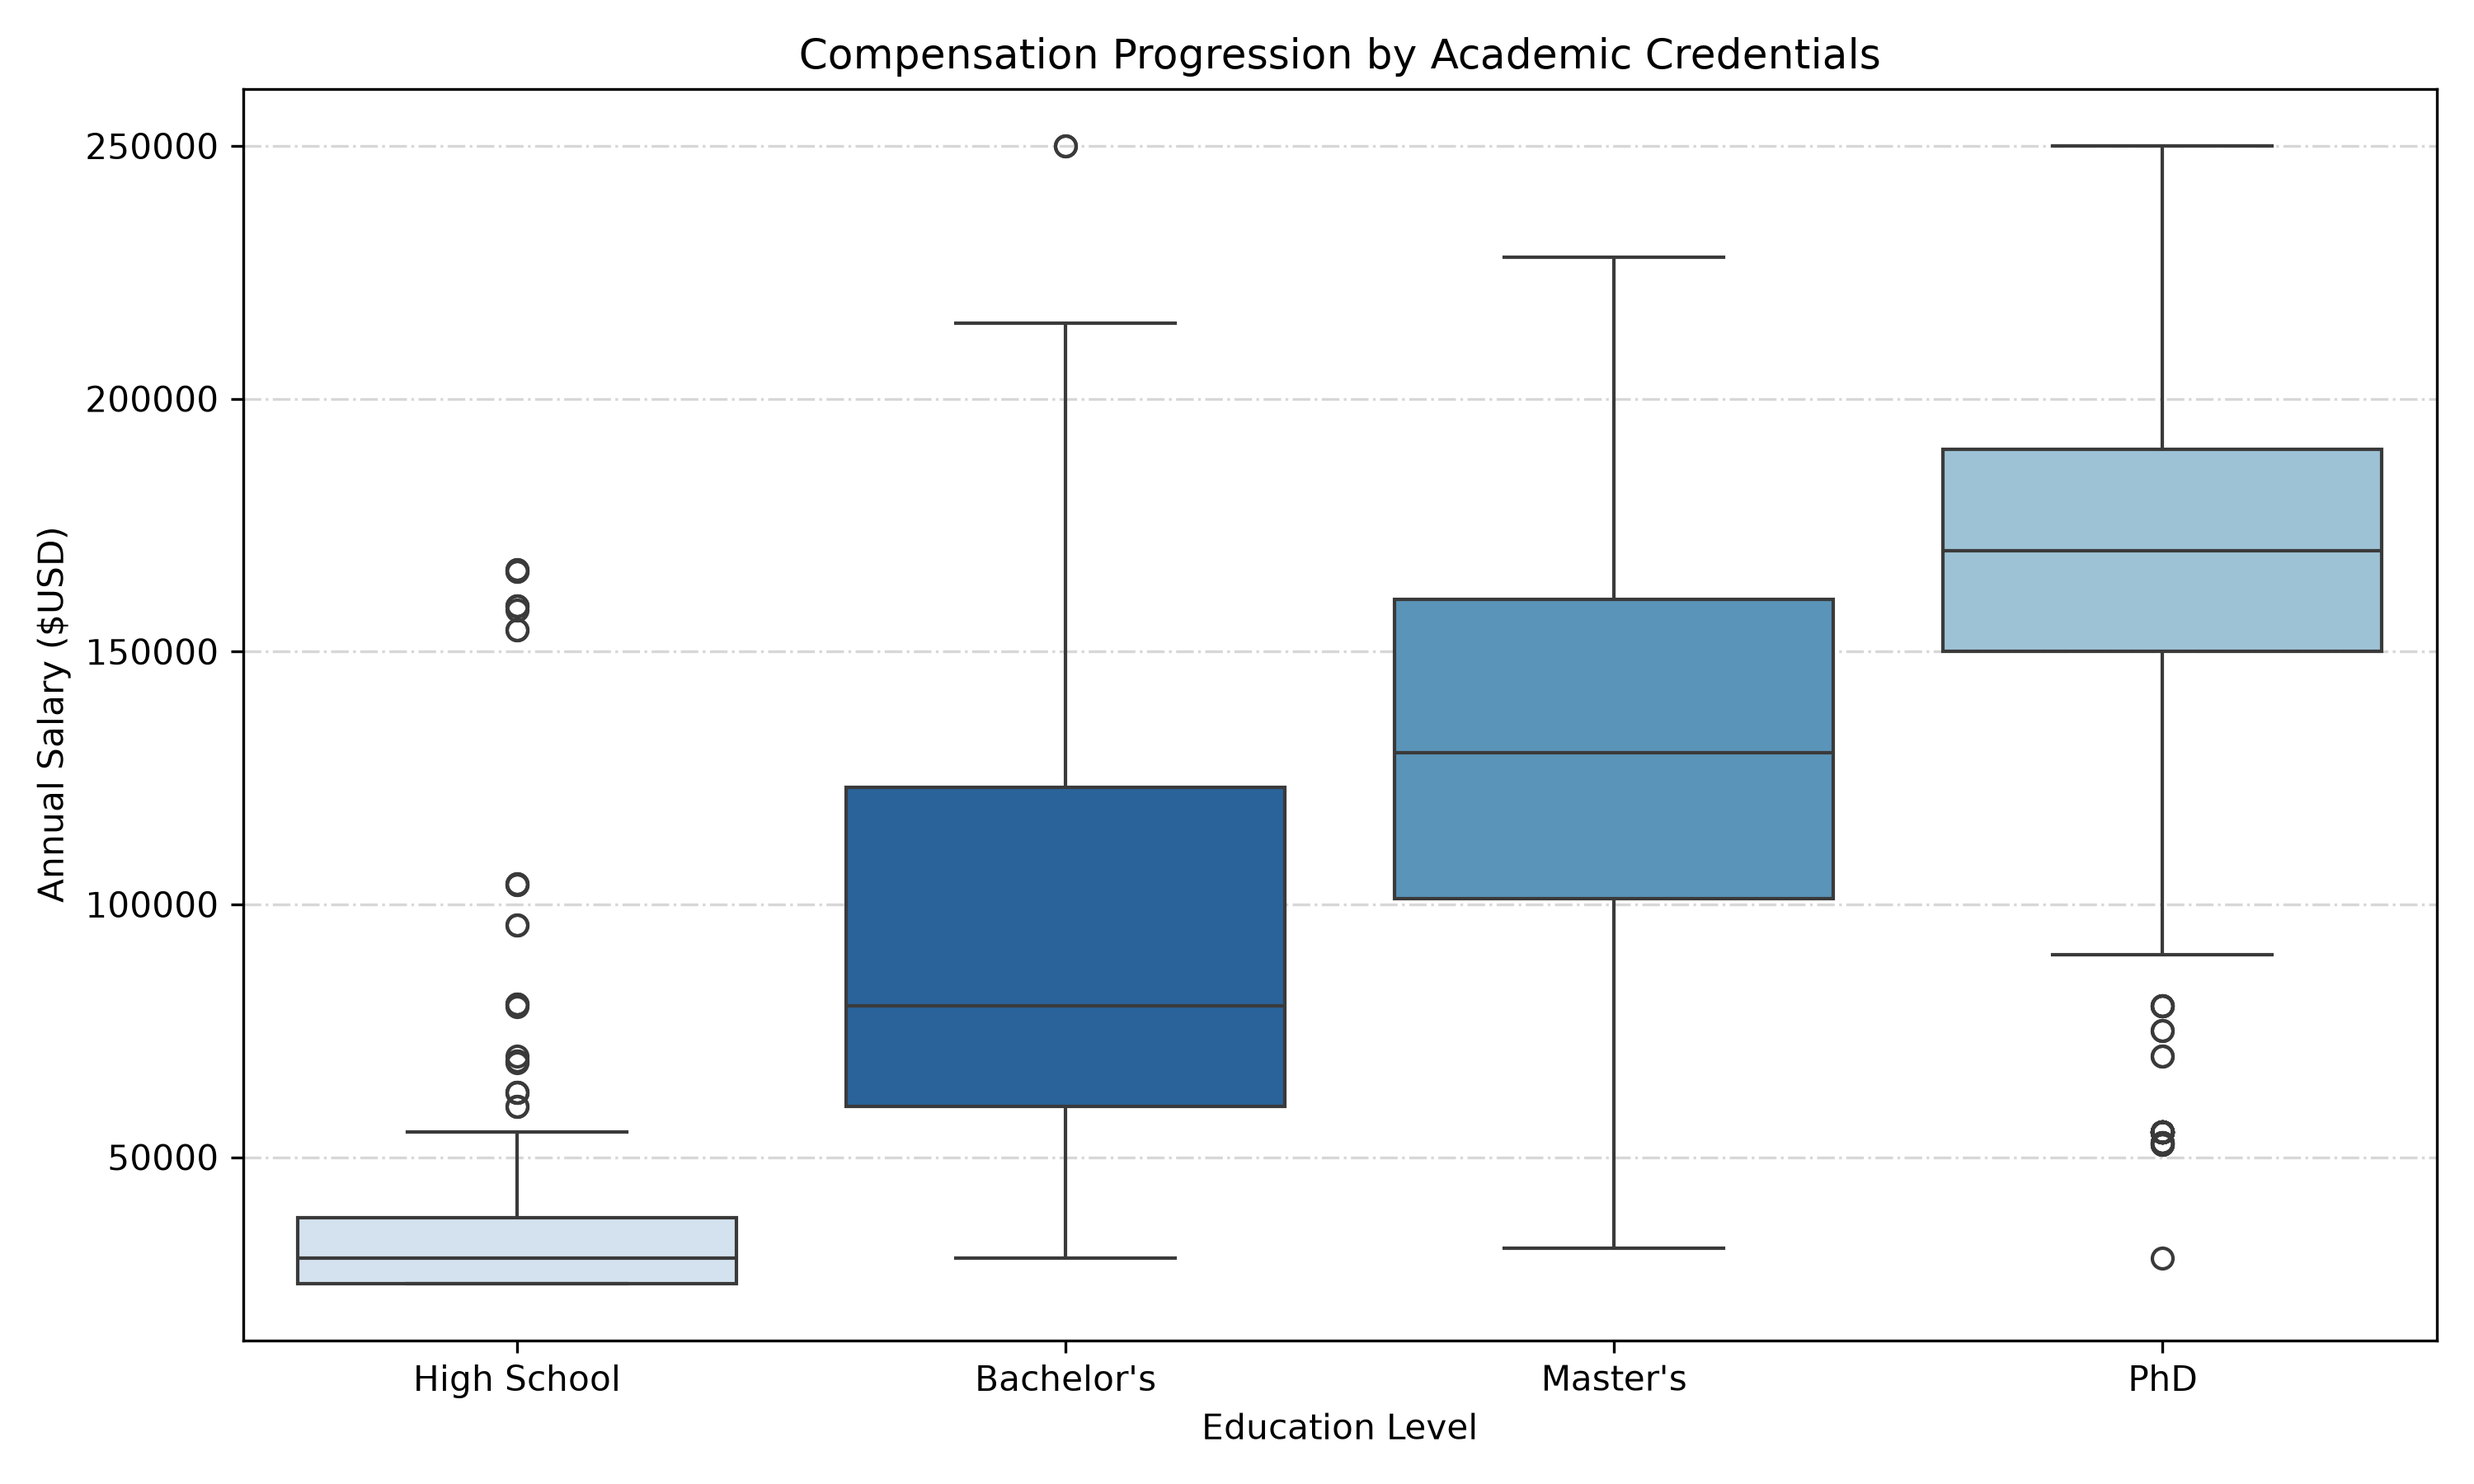
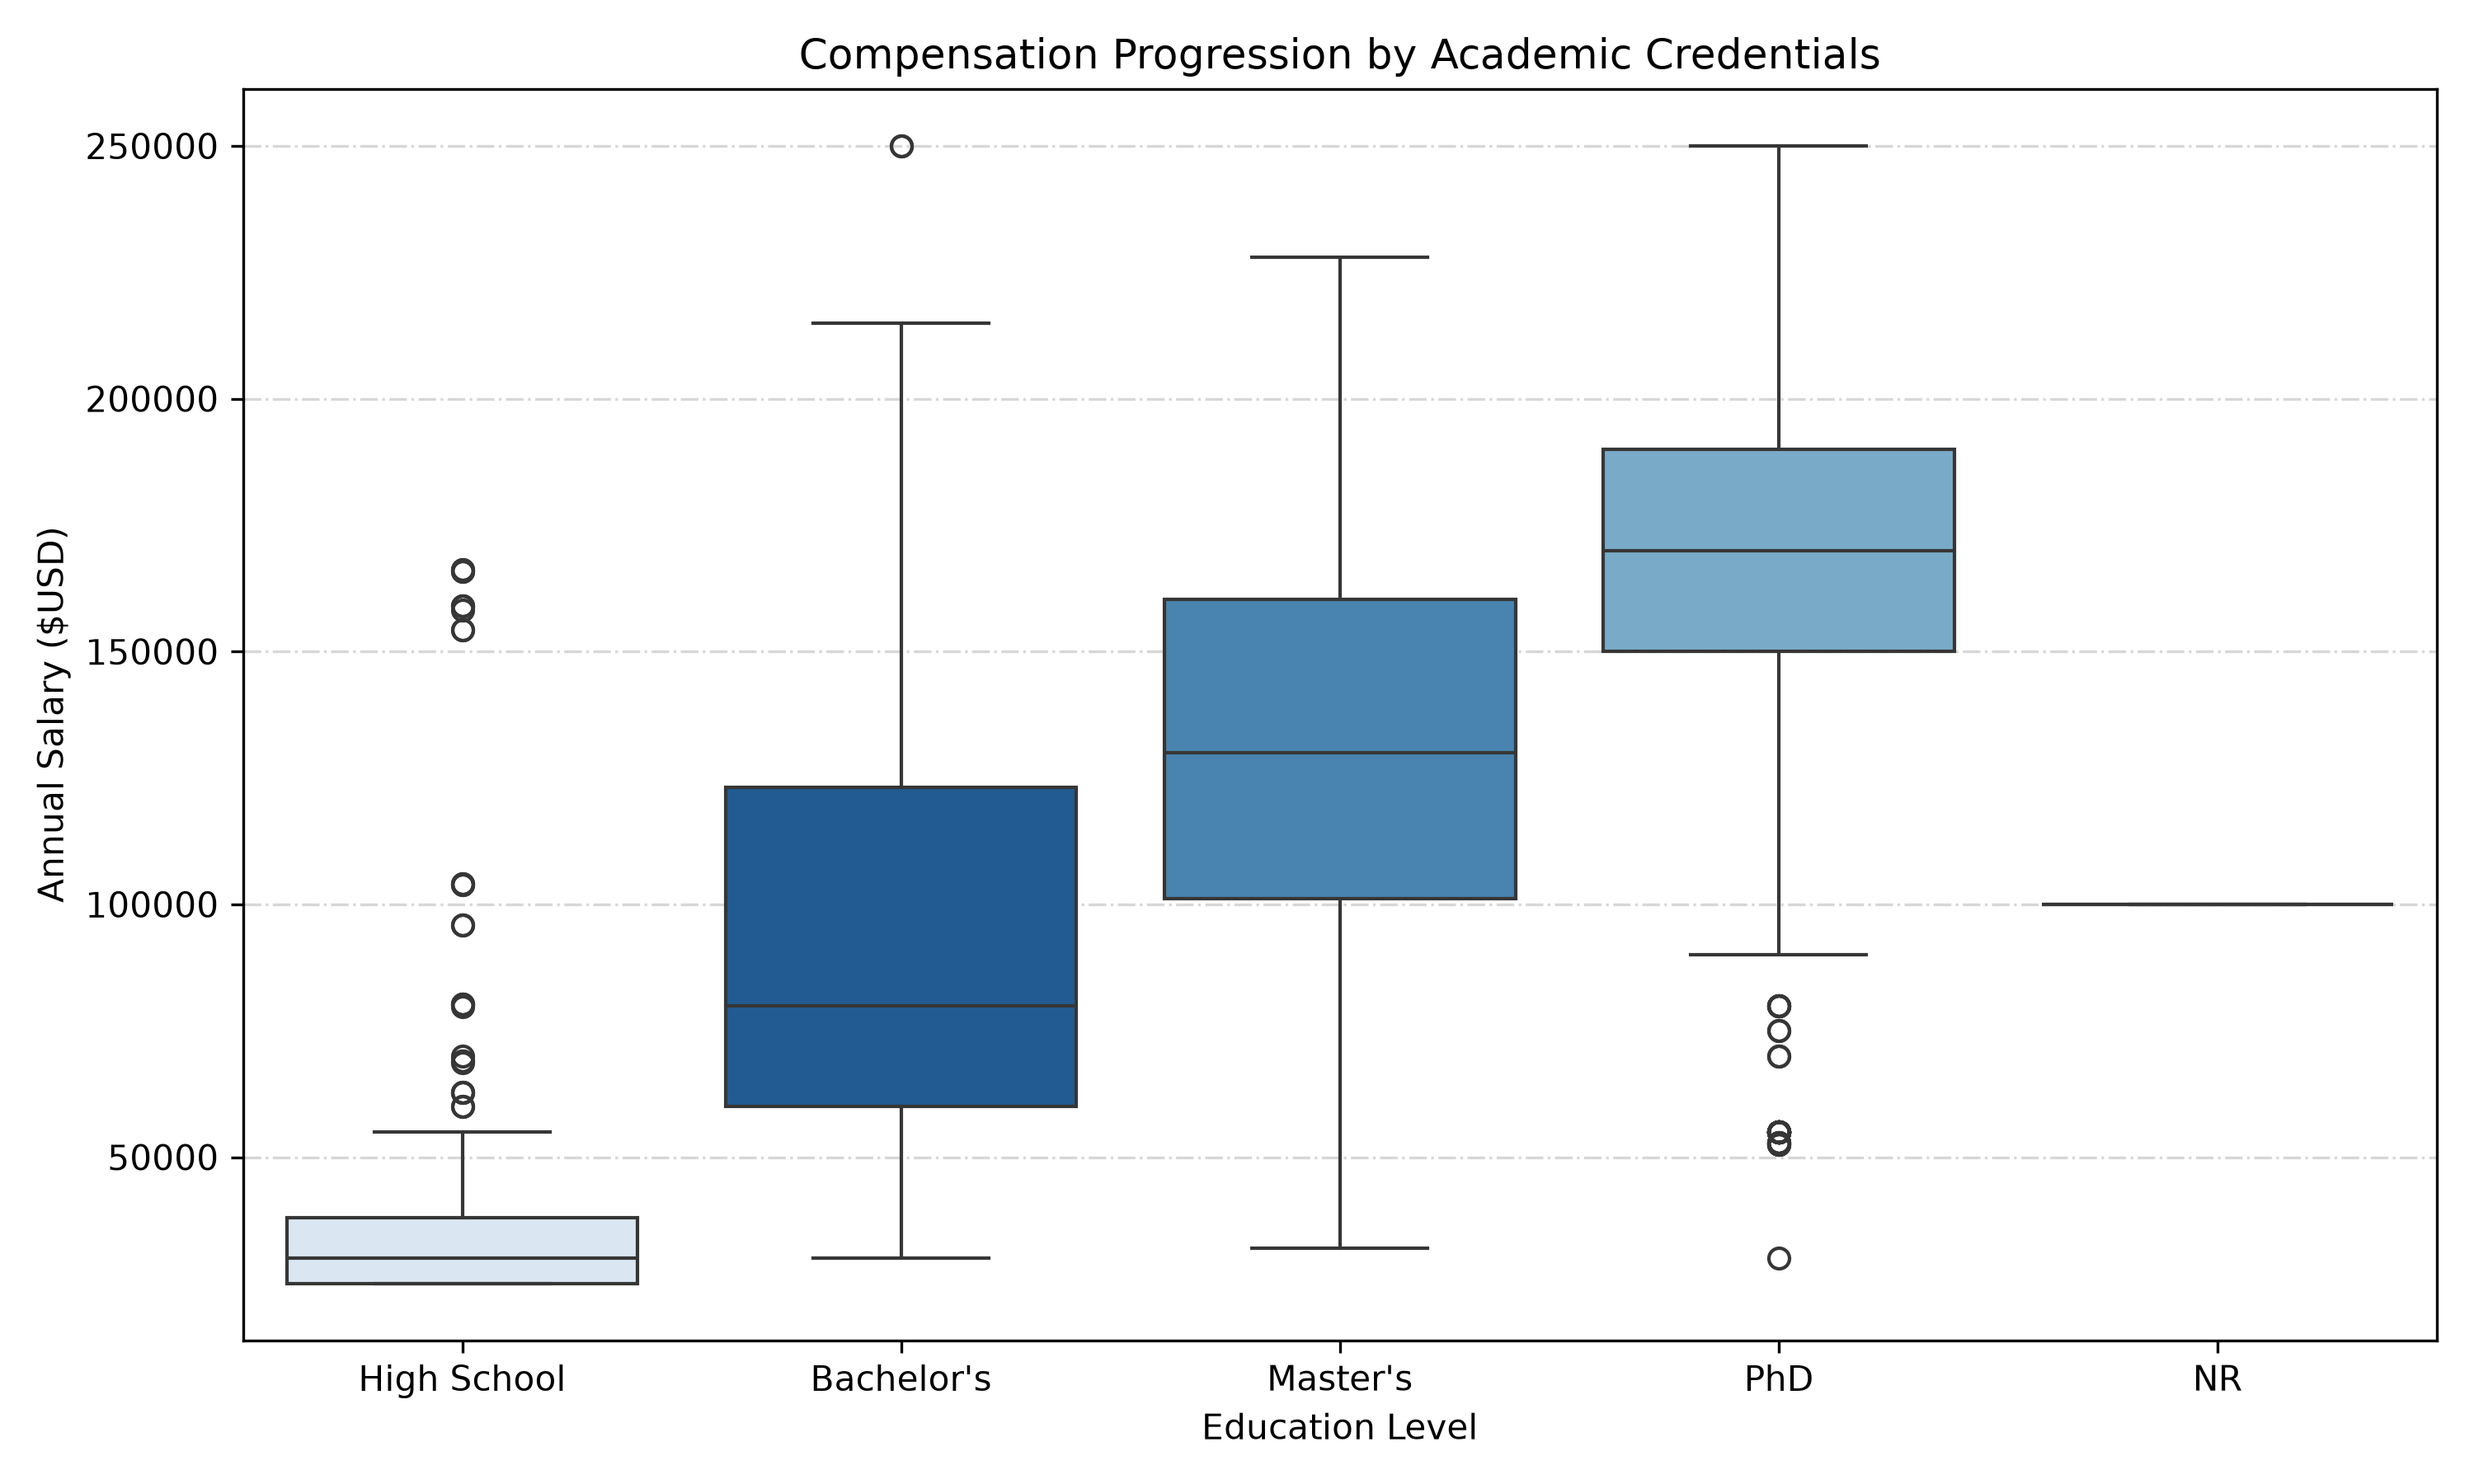
Add new education level and update stats calculations
- Added a new entry for 'NR' (Not Reported) in the education level order.
- Updated the pandas pipeline to map missing education levels to 'NR'.
- Introduced a new script for extracting and calculating salary statistics.
- Updated visualizations to reflect changes in the dataset.

diff --git a/scripts/extract_stats.py b/scripts/extract_stats.py
@@ -1,0 +1,68 @@
+# ============================================
+# IMPORTS, PATHS $ CONSTANTS
+# ============================================
+import pandas as pd
+from pathlib import Path
+from scipy import stats
+
+# Paths
+BASE_DIR = Path(__file__).resolve().parent.parent
+DATA_PATH = BASE_DIR / 'data'
+
+# Constant
+EDUCATION_ORDER = ["High School", "Bachelor's", "Master's", "PhD", "NR"]
+
+# ============================================
+# STATS FUNCTION
+# ============================================
+def calculate_overall_stats(df: pd.DataFrame) -> dict[str, float]:
+    # 1. Calculate stats on df['Salary']
+    # mean_val, median_val, std_val, min_val, max_val, skew_val = 
+    return df['Salary'].agg(['mean', 'median', 'std', 'min', 'max', 'skew']).to_dict()
+
+def calculate_education_stats(df: pd.DataFrame) -> pd.DataFrame:
+    # 1. Calculate stats on df['Education Level']
+    edu_stats = df.groupby('Education Level')['Salary'].agg(['count', 'mean', 'median', 'std']).reindex(EDUCATION_ORDER)
+    
+    return edu_stats
+
+def calculate_experience_stats(df: pd.DataFrame) -> dict[str, float]:
+    # 1. Pearson Correlation (r)
+    corr = df['Years of Experience'].corr(df['Salary'])
+
+    # 2. Linear Regression (Slope, Intercept, R-value)
+    res = stats.linregress(df['Years of Experience'], df['Salary'])
+    r_squared = res.rvalue**2
+
+    # Pack all in a dictionary
+    experience_stats = {'corr': corr, 'r_squared': r_squared, 'slope': res.slope, 'intercept': res.intercept}
+
+    return experience_stats   
+
+def main():
+    df = pd.read_csv(DATA_PATH / 'clean-salary-data.csv')
+
+    overall_stats = calculate_overall_stats(df)
+    print("\n=== OVERALL SALARY STATS ===")
+    print(f"Mean: ${overall_stats['mean']:,.2f}")
+    print(f"Median: ${overall_stats['median']:,.2f}")
+    print(f"Standard Deviation: ${overall_stats['std']:,.2f}")
+    print(f"Min & Max: ${overall_stats['min']:,.2f} | ${overall_stats['max']:,.2f}")
+    print(f"Skewness: {overall_stats['skew']:.2f}")
+    
+    education_stats = calculate_education_stats(df)
+    print("\n=== SALARY STATS BY EDUCATION LEVEL ===")
+    print(education_stats)
+
+    experience_stats = calculate_experience_stats(df)
+    print("\n=== EXPERIENCE VS SALARY STATS ===")
+    print(f"Correlation (r): {experience_stats['corr']:.4f}")
+    print(f"Explanatory Power (R²): {experience_stats['r_squared']:.4f}")
+    print(f"Annual Gain (Slope): +${experience_stats['slope']:,.2f} per year")
+    print(f"Base Salary (Intercept): ${experience_stats['intercept']:,.2f}")   
+
+# ============================================
+# MAIN EXECUTION
+# ============================================
+if __name__ == '__main__':
+    main()

diff --git a/scripts/pandas_pipeline.py b/scripts/pandas_pipeline.py
@@ -4,8 +4,6 @@
 from pathlib import Path
 import pandas as pd
 
-## sys.path.append(str(Path(__file__).resolve().parent.parent))
-
 # Paths
 BASE_DIR = Path(__file__).resolve().parent.parent
 DATA_PATH = BASE_DIR / 'data'
@@ -20,7 +18,7 @@ MAPPING = {
     "master's": "Master's",
     "master's degree": "Master's",
     "phd": "PhD",
-    "": "NR" # Maps empty strings to 'NR' (Not Reported)
+    "missing": "NR" # Maps empty strings to 'NR' (Not Reported)
 }
 
 # ============================================
@@ -44,6 +42,10 @@ def clean_salary_data(df: pd.DataFrame, text_cols: list[str], threshold: float =
     """
     Sanitizes raw DataFrame using vectorized pandas operations.
     """
+    # test
+    df['Education Level'] = df['Education Level'].fillna('missing')
+    print(f"\nTESTE: \n{df['Education Level'].value_counts()}")
+
     # Filter anomalies & drop missing values
     df_clean = df[df['Salary'] >= threshold].dropna().copy()
 

diff --git a/scripts/eda_visualizations.py b/scripts/eda_visualizations.py
@@ -15,7 +15,7 @@ OUTPUT_DIR.mkdir(parents = True, exist_ok = True)
 # ============================================
 # CONSTANTS & CATEGORY ORDER
 # ============================================
-EDUCATION_ORDER = ["High School", "Bachelor's", "Master's", "PhD"]
+EDUCATION_ORDER = ["High School", "Bachelor's", "Master's", "PhD", "NR"]
 GENDER_ORDER = ['Female', 'Male', 'Other']
 
 # ============================================
